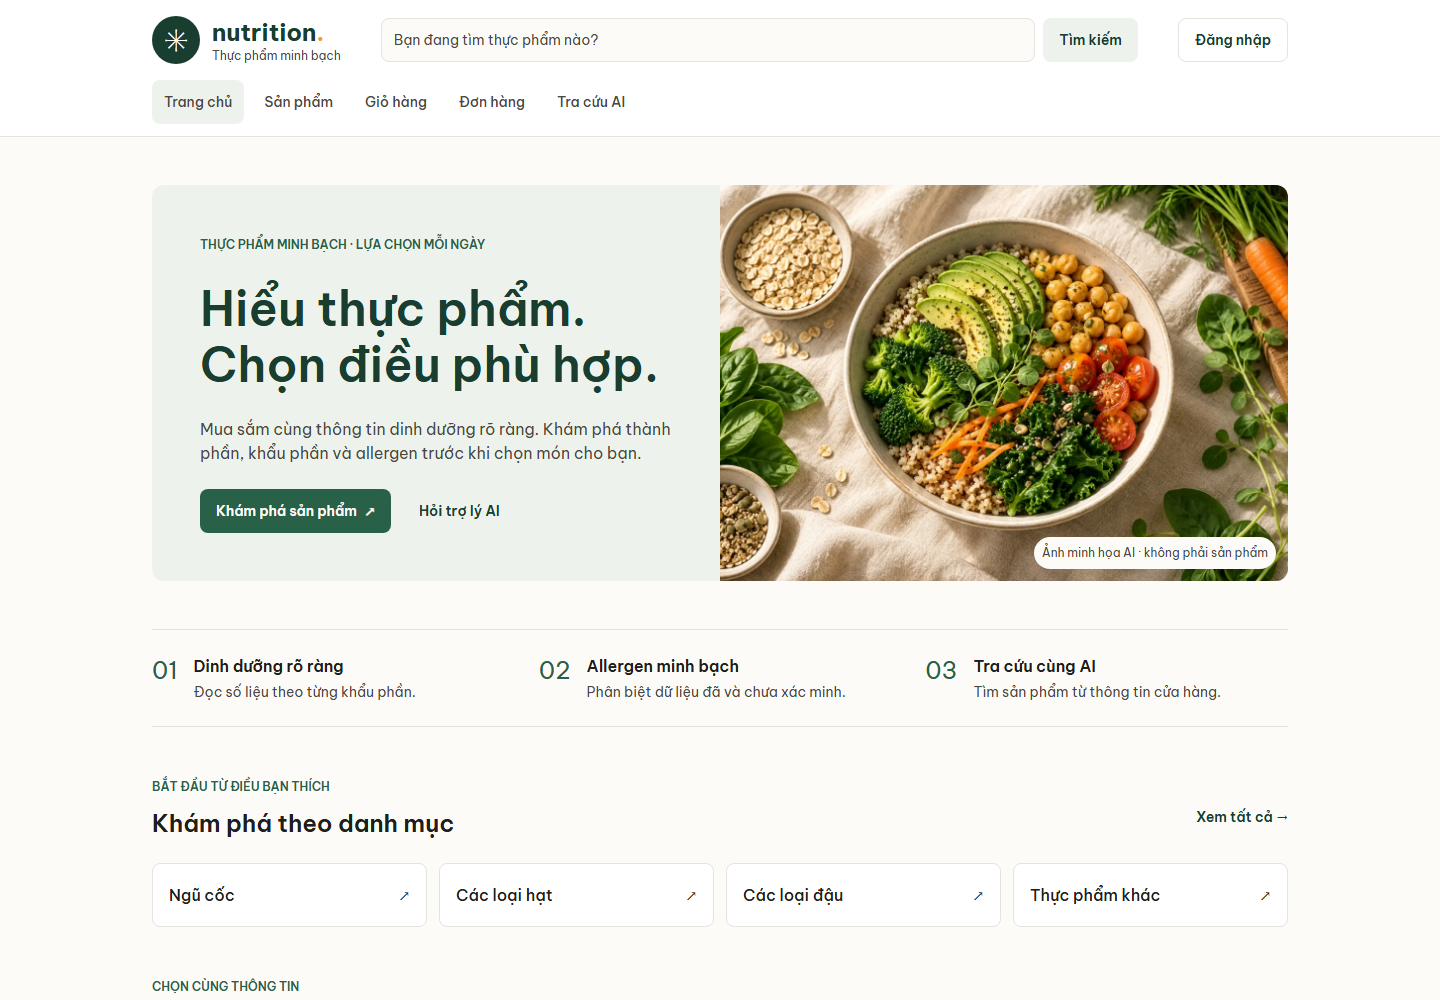
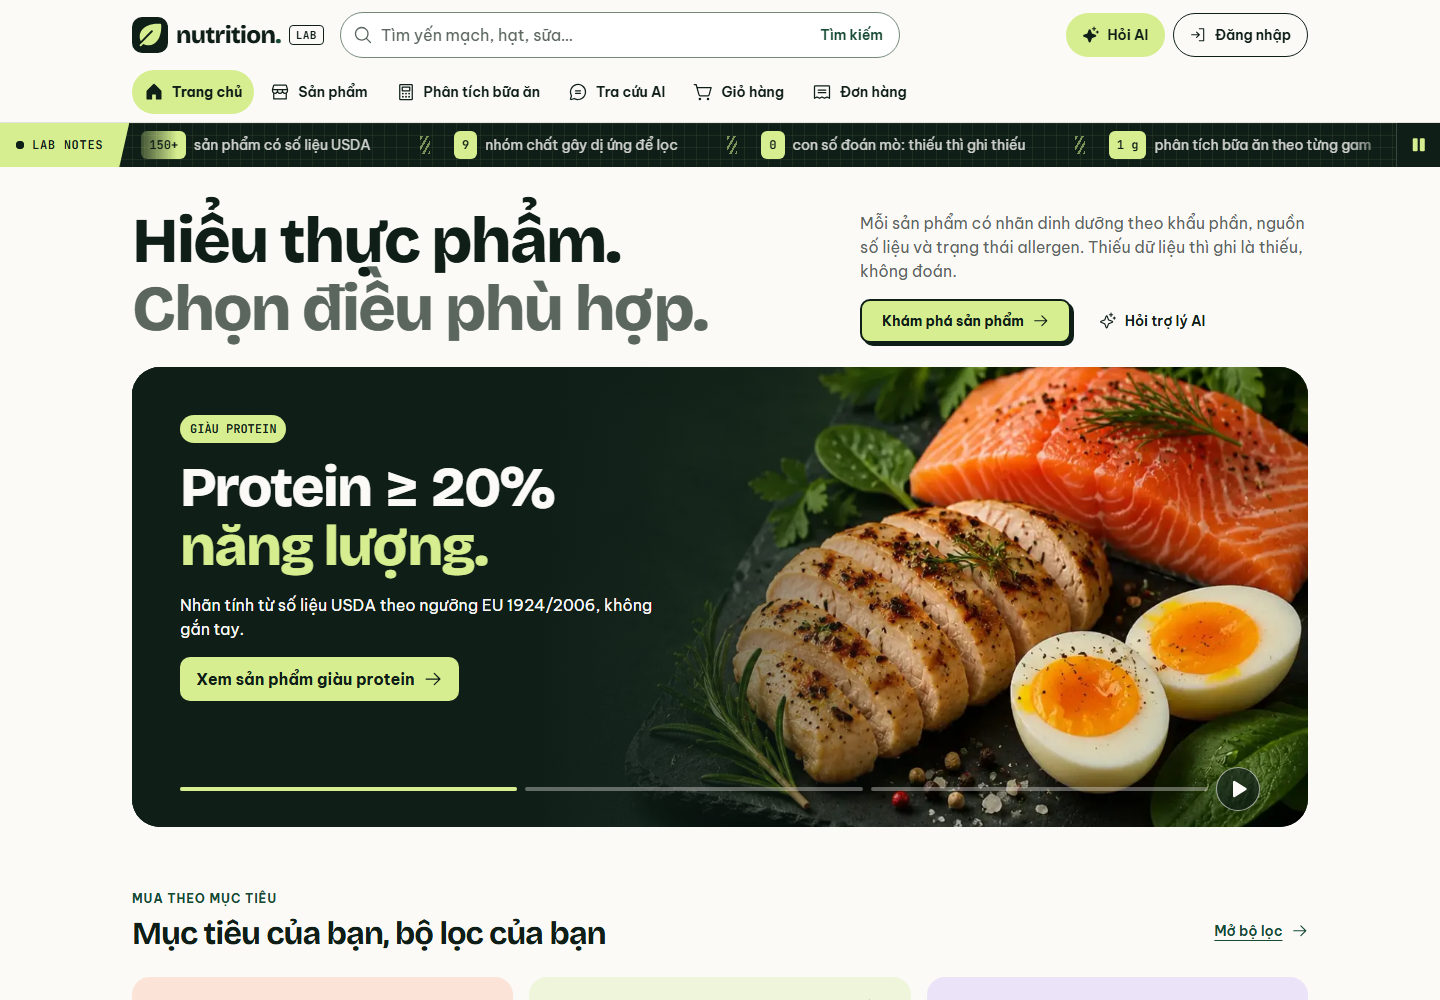
Docs: AWS diagram, STAR summary, new screenshots, drill log

diff --git a/docs/runbook.md b/docs/runbook.md
@@ -51,13 +51,30 @@ Mục tiêu: chứng minh hạ tầng dựng lại được hoàn toàn từ Ter
 4. Khôi phục bảo vệ xóa trong code, rồi dựng lại từ snapshot:
    ```powershell
    $env:TF_VAR_restore_snapshot_identifier = "nutrition-dev-before-rebuild"
-   powershell -ExecutionPolicy Bypass -File .\scripts\demo-infra.ps1 down
+   powershell -NoProfile -ExecutionPolicy Bypass -File .\scripts\demo-infra.ps1 down -Vnpay
    ```
 5. Chạy workflow Deploy (GitHub Actions → *Deploy to AWS dev* → Run workflow) để đẩy lại image và
    frontend, `up`, kiểm tra theo `docs/demo.md`.
 6. Bỏ biến `TF_VAR_restore_snapshot_identifier` (Terraform bỏ qua thay đổi biến này sau khi tạo).
 
 Bucket state (`infra/bootstrap`) có `prevent_destroy`, không nằm trong bài diễn tập.
+
+Thứ tự khuyên dùng: chạy mục 3 trước (rẻ, không đụng DB đang dùng); mục 4 chỉ chạy khi đã có
+snapshot `Available` và chấp nhận mất tài khoản Cognito nếu xóa cả user pool.
+
+| Mục | Mục 3: khôi phục snapshot | Mục 4: destroy rồi dựng lại |
+| --- | --- | --- |
+| Ngày, người chạy | | |
+| Snapshot dùng | | |
+| Bắt đầu → `Available` (phút) | | |
+| Kiểm tra dữ liệu | Đếm sản phẩm trên bản khôi phục = bản gốc (152)? | `/api/products` trả đủ sản phẩm sau `up`? |
+| Kiểm tra ứng dụng | (không áp dụng) | Trang chủ, đăng nhập, đặt hàng COD theo `docs/demo.md` |
+| Đã xóa tài nguyên diễn tập | Instance `nutrition-dev-restore-drill`, snapshot diễn tập | Biến `TF_VAR_restore_snapshot_identifier` |
+| Sự cố gặp phải, cách xử lý | | |
+
+Ghi chú khi bảo vệ: thời gian từ lúc bắt đầu khôi phục tới khi dùng được chính là **RTO** đo được;
+dữ liệu mất tối đa (**RPO**) là khoảng cách tới snapshot dùng để khôi phục; với backup tự động, RDS
+còn cho khôi phục tới một thời điểm (point-in-time) gần hiện tại, thường chỉ cách vài phút.
 
 ## 5. Thanh toán VNPAY sandbox (D27)
 

diff --git a/docs/architecture.md b/docs/architecture.md
@@ -4,7 +4,7 @@
 
 ## 1. Phạm vi MVP
 
-Catalog, tài khoản, AI tra cứu (chỉ đọc), giỏ hàng, đặt hàng, quản lý đơn. Không có thanh toán.
+Catalog, tài khoản, AI tra cứu (chỉ đọc), giỏ hàng, đặt hàng, quản lý đơn. Thanh toán khi nhận hàng hoặc VNPAY **sandbox** (D27), không có giao dịch tiền thật. Sơ đồ AWS: [docs/diagrams/aws-architecture.png](diagrams/aws-architecture.png).
 Không nằm trong MVP: Nutrition Profile, Recommendation Engine, meal plan, event pipeline, pipeline USDA, `addToCart` qua AI, domain riêng, WAF.
 
 ## 2. Sơ đồ khối

diff --git a/README.md b/README.md
@@ -73,6 +73,8 @@ Kiến trúc đã triển khai trên AWS (bật / tắt theo buổi demo, xem `i
 chỉ nhận lưu lượng từ CloudFront; chi tiết xem [kiến trúc](docs/architecture.md)
 và [quyết định](docs/decisions.md).
 
+![Kiến trúc AWS](docs/diagrams/aws-architecture.png)
+
 ```mermaid
 flowchart LR
   user([Trình duyệt]) -->|HTTPS *.cloudfront.net| cf[CloudFront]
